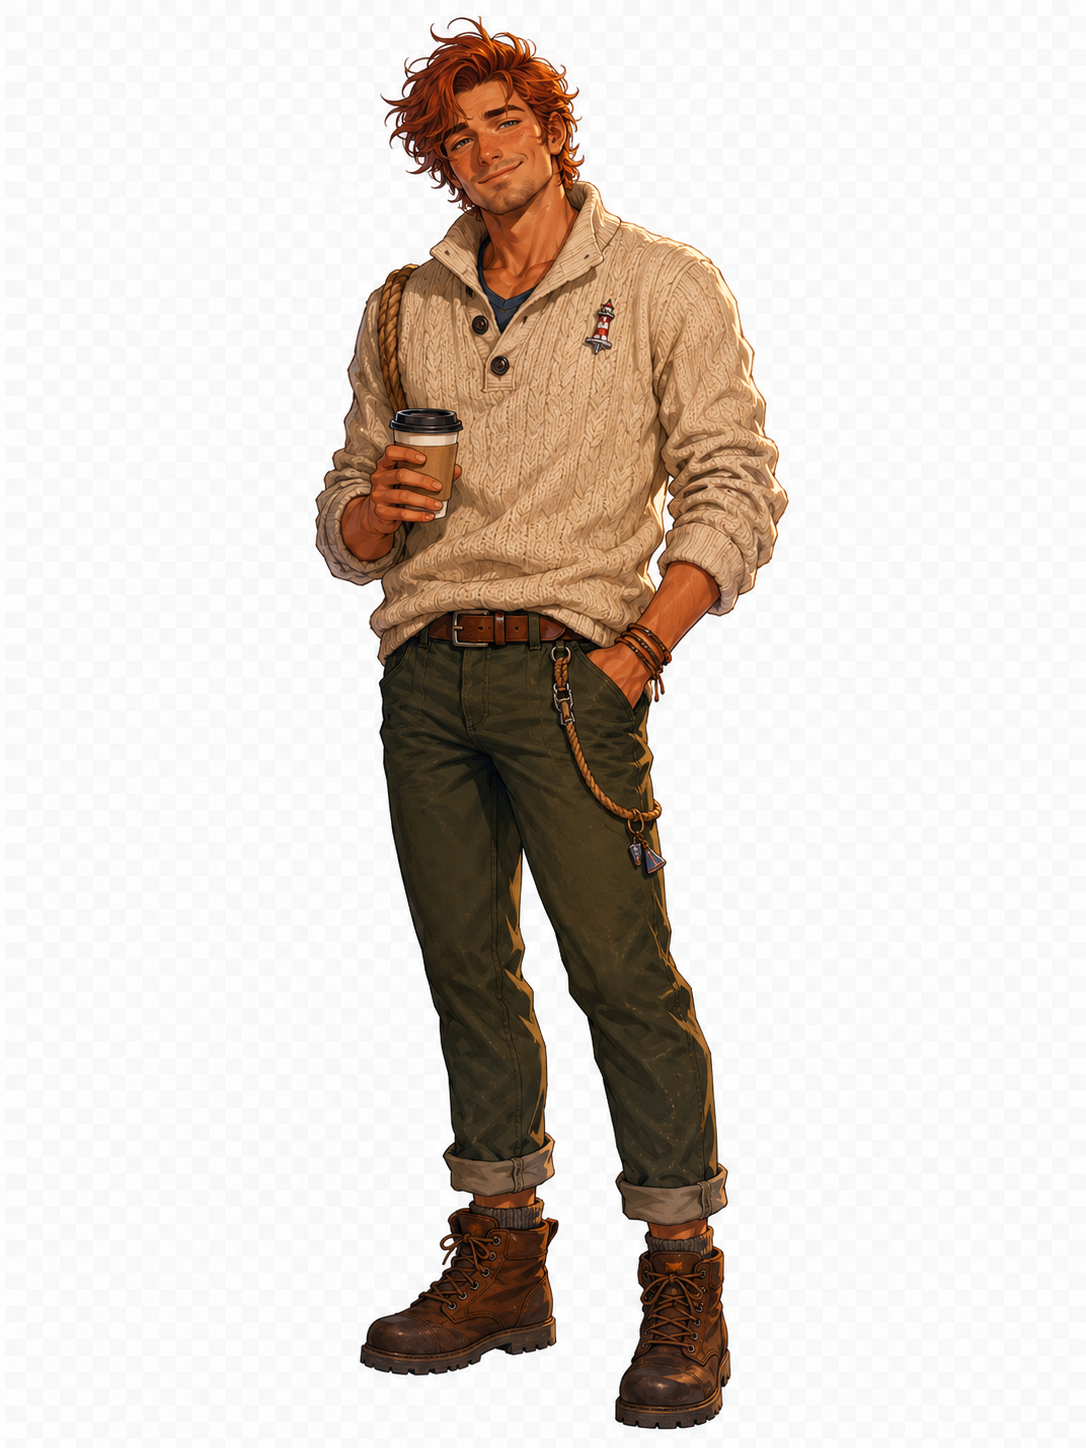
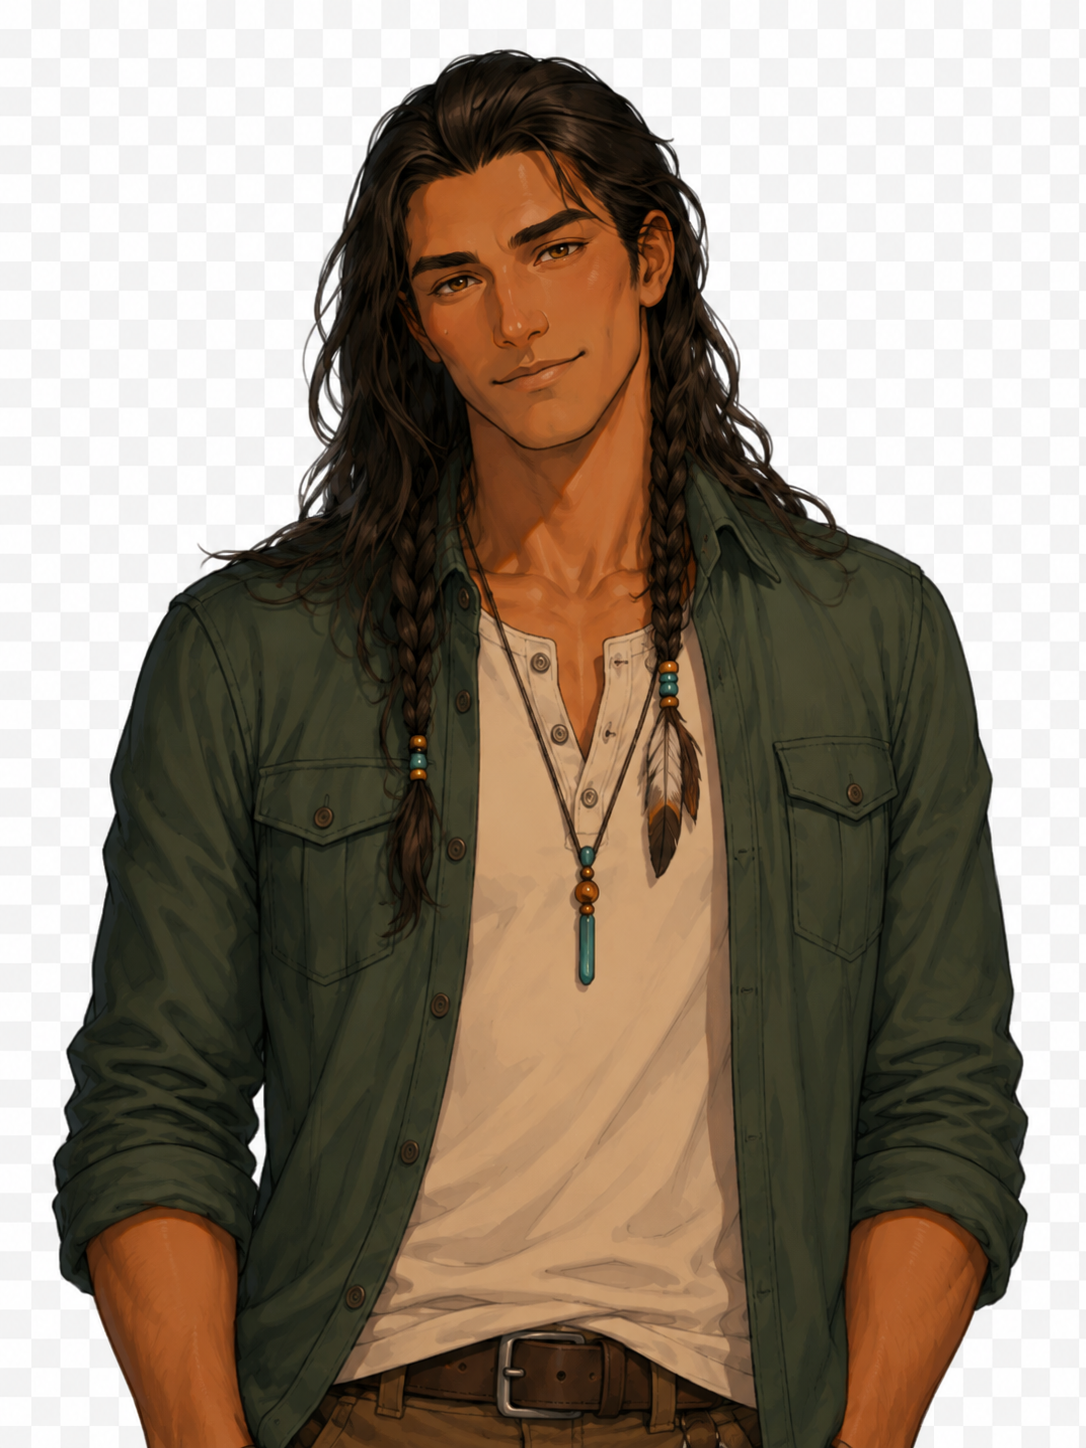
Improved intro with internal monolog

diff --git a/index.html b/index.html
@@ -670,6 +670,7 @@
           <button class="icon-btn" id="saveBtn" title="Save">S</button>
           <button class="icon-btn" id="loadBtn" title="Load">L</button>
           <button class="icon-btn" id="galleryBtn" title="Gallery">G</button>
+          <button class="icon-btn" id="audioBtn" title="Sound on">♪</button>
           <button class="text-btn" id="resetBtn">Reset</button>
         </div>
       </header>
@@ -741,7 +742,8 @@
         rangerApproval: 0
       },
       flags: {},
-      unlockedCG: []
+      unlockedCG: [],
+      audioEnabled: true
     };
 
     let state = clone(defaultState);
@@ -772,6 +774,31 @@
       everglades: ["assets/backgrounds/bg_everglades_moonlit_boardwalk.png", "bg-everglades"],
       dinner: ["assets/backgrounds/bg_group_dinner_lodge.png", "bg-lodge"],
       glitch: ["assets/backgrounds/bg_algorithm_post_glitch.png", "bg-glitch"]
+    };
+
+    const locationThemes = {
+      lodge: { root: 50, scale: [0, 3, 5, 7, 10], wave: "triangle", tempo: 980, pad: 0.045, bass: 0.05 },
+      lodgeExterior: { root: 48, scale: [0, 5, 7, 9, 12], wave: "sine", tempo: 1080, pad: 0.045, bass: 0.045 },
+      yellowstone: { root: 43, scale: [0, 2, 5, 7, 10], wave: "sawtooth", tempo: 820, pad: 0.04, bass: 0.055 },
+      yosemite: { root: 45, scale: [0, 4, 7, 11, 12], wave: "triangle", tempo: 900, pad: 0.05, bass: 0.045 },
+      acadia: { root: 52, scale: [0, 2, 4, 7, 9], wave: "sine", tempo: 760, pad: 0.04, bass: 0.035 },
+      smoky: { root: 47, scale: [0, 3, 5, 7, 10], wave: "triangle", tempo: 1040, pad: 0.055, bass: 0.035 },
+      zion: { root: 41, scale: [0, 2, 5, 7, 9], wave: "square", tempo: 860, pad: 0.035, bass: 0.055 },
+      everglades: { root: 46, scale: [0, 2, 3, 7, 10], wave: "sine", tempo: 720, pad: 0.045, bass: 0.045 },
+      dinner: { root: 53, scale: [0, 2, 5, 7, 9], wave: "triangle", tempo: 680, pad: 0.04, bass: 0.04 },
+      glitch: { root: 42, scale: [0, 1, 6, 7, 11], wave: "sawtooth", tempo: 520, pad: 0.03, bass: 0.05 }
+    };
+
+    const characterThemes = {
+      june: { lead: "square", melody: [12, 7, 10, 5, 7, 3, 5, 0], volume: 0.022 },
+      yellowstone: { lead: "sawtooth", melody: [0, 7, 10, 14, 12, 10, 7, 5], volume: 0.026 },
+      yosemite: { lead: "triangle", melody: [12, 16, 19, 23, 19, 16, 14, 12], volume: 0.025 },
+      acadia: { lead: "sine", melody: [7, 9, 12, 14, 16, 14, 12, 9], volume: 0.024 },
+      smoky: { lead: "triangle", melody: [0, 3, 7, 10, 12, 10, 7, 3], volume: 0.024 },
+      zion: { lead: "square", melody: [0, 5, 9, 12, 17, 12, 9, 5], volume: 0.022 },
+      everglades: { lead: "sine", melody: [0, 2, 3, 7, 10, 7, 3, 2], volume: 0.025 },
+      chad: { lead: "sawtooth", melody: [12, 11, 7, 6, 5, 1, 6, 11], volume: 0.02 },
+      algorithm: { lead: "sawtooth", melody: [0, 6, 1, 11, 7, 13, 6, 1], volume: 0.024 }
     };
 
     const cgLibrary = {
@@ -878,22 +905,24 @@
 
     const scenes = {
       cold_open_tiktok_montage: {
-        label: "Cold Open",
+        label: "Before The Lodge",
         background: "lodgeExterior",
         character: null,
-        onEnter: { parkTok: "coldOpen", metrics: { viralPotential: 1, chaos: 1 } },
+        onEnter: { metrics: { viralPotential: 1, chaos: 1 } },
         lines: [
-          ["narrator", "ParkTok was supposed to be simple: one sunset, two safety facts, zero comments using the phrase geological thirst."],
-          ["narrator", "Then a parody Yellowstone clip hit seven figures, Yosemite discovered front-facing vulnerability, and every park account with a tripod started acting suspicious."],
-          ["narrator", "You, a rising creator with a ring light and questionable judgment, have been invited to Viral Vista Lodge for the first Public Lands Content Creator Retreat."],
-          ["narrator", "The invitation promises education, collaboration, and a legally distinct amount of romantic tension."],
-          ["june", "Welcome packet rule one: no touching wildlife. Rule two: no implying the wildlife wants to touch you back."],
-          ["june", "Rule three: if a handsome landscape asks you to step off a marked path, you report him to me and then reconsider your type."]
+          ["player", "Okay. Breathe. Badge straight. Hair doing whatever it thinks is best."],
+          ["player", "My name is {playerName}. Online, I am a {archetype}; offline, I am a person carrying two power banks, three lip balms, and a very fragile belief that I can be normal about famous landscapes."],
+          ["player", "ParkTok was supposed to be simple for me: one sunset, two safety facts, zero captions that made strangers type 'geological thirst' in public."],
+          ["player", "Then my parody Yellowstone clip hit seven figures. Yosemite duetted it with alarming cheekbones. Acadia made sunrise coffee look like a love language. By noon, half the internet was asking which park had the best emotional availability."],
+          ["player", "That is how I ended up invited to Viral Vista Lodge for the first Public Lands Content Creator Retreat: education, collaboration, and a legally distinct amount of romantic tension."],
+          ["player", "The job sounds simple. Help the parks go viral without encouraging anyone to step off trails, bother wildlife, or confuse stewardship with flirting."],
+          ["player", "The situation sounds less simple: the parks are somehow here as adult fictional personifications, my phone keeps buzzing, and the comments are already treating this like a dating show with trail maps."],
+          ["player", "Before I can decide whether that is charming or career-ending, the lodge doors open."]
         ],
         choices: [
-          { label: "Arrive hydrated and emotionally available.", next: "arrival_lodge", metrics: { conservationCred: 1, rangerApproval: 1 } },
-          { label: "Arrive late because you were choosing a caption.", next: "arrival_lodge", metrics: { viralPotential: 1, chaos: 1 } },
-          { label: "Arrive with backup socks and backup feelings.", next: "arrival_lodge", affection: { smoky: 1, acadia: 1 } }
+          { label: "Step inside hydrated and emotionally available.", next: "arrival_lodge", metrics: { conservationCred: 1, rangerApproval: 1 }, parkTok: "coldOpen" },
+          { label: "Check the comments one last time.", next: "arrival_lodge", metrics: { viralPotential: 1, chaos: 1 }, parkTok: "coldOpen" },
+          { label: "Pocket backup socks and backup feelings.", next: "arrival_lodge", affection: { smoky: 1, acadia: 1 }, parkTok: "coldOpen" }
         ]
       },
 
@@ -902,6 +931,7 @@
         background: "lodge",
         character: "june",
         lines: [
+          ["june", "You must be {playerName}. I am Ranger June, and I can already hear your notification anxiety from across the lobby."],
           ["june", "Badge name? Creator archetype? Emergency contact who will not ask why you were flirting with sedimentary lighting?"],
           ["player", "I'm {playerName}. Officially a {archetype}. Unofficially, I'm here to make responsible content and maybe bad decisions in good boots."],
           ["june", "Excellent. You will fit in terribly."],
@@ -1360,6 +1390,18 @@
       galleryGrid: document.getElementById("galleryGrid")
     };
 
+    const audioEngine = {
+      ctx: null,
+      master: null,
+      musicGain: null,
+      sfxGain: null,
+      intervalId: null,
+      step: 0,
+      locationKey: "lodgeExterior",
+      characterKey: null,
+      enabled: true
+    };
+
     document.getElementById("newGameBtn").addEventListener("click", () => showScreen("setupScreen"));
     document.getElementById("continueBtn").addEventListener("click", loadGame);
     document.getElementById("beginBtn").addEventListener("click", startGame);
@@ -1368,6 +1410,7 @@
     document.getElementById("loadBtn").addEventListener("click", loadGame);
     document.getElementById("resetBtn").addEventListener("click", resetGame);
     document.getElementById("galleryBtn").addEventListener("click", showGallery);
+    document.getElementById("audioBtn").addEventListener("click", toggleAudio);
     document.getElementById("closeGalleryBtn").addEventListener("click", () => els.galleryOverlay.classList.remove("active"));
     document.getElementById("unlockPreviewBtn").addEventListener("click", () => {
       Object.keys(cgLibrary).forEach(unlockCG);
@@ -1397,6 +1440,8 @@
       const name = document.getElementById("playerName").value.trim();
       state.playerName = name || "Creator";
       state.archetype = document.getElementById("archetype").value;
+      audioEngine.enabled = state.audioEnabled;
+      ensureAudio();
       showScreen("gameScreen");
       renderScene("cold_open_tiktok_montage");
     }
@@ -1409,6 +1454,7 @@
       applyOnEnter(scene);
       updateBackdrop(scene.background);
       updateSprite(scene.character);
+      updateAudioTheme(scene.background, scene.character);
       updateHUD();
       renderCurrentLine();
     }
@@ -1430,6 +1476,7 @@
       const scene = scenes[state.sceneId];
       if (!scene || state.lineIndex >= scene.lines.length - 1) return;
       state.lineIndex += 1;
+      playSfx("advance");
       renderCurrentLine();
     }
 
@@ -1448,6 +1495,7 @@
     }
 
     function applyChoiceEffects(choice) {
+      playSfx("choice");
       if (choice.affection) addValues(state.affection, choice.affection);
       if (choice.metrics) addValues(state.metrics, choice.metrics);
       if (choice.flags) Object.assign(state.flags, choice.flags);
@@ -1481,6 +1529,7 @@
       if (scene.onEnter.affection) addValues(state.affection, scene.onEnter.affection);
       if (scene.onEnter.unlockCG) unlockCG(scene.onEnter.unlockCG);
       if (scene.onEnter.parkTok) setTimeout(() => showParkTok(scene.onEnter.parkTok), 180);
+      playSfx("scene");
     }
 
     function updateBackdrop(backgroundKey) {
@@ -1515,6 +1564,7 @@
       els.parkTokMeta.textContent = `${moment.likes} likes  |  ${moment.shares} shares  |  #ParkTok`;
       els.parkTokComments.innerHTML = moment.comments.map(comment => `<div class="comment">@trailcomment: ${escapeHtml(comment)}</div>`).join("");
       els.parkTokOverlay.classList.add("active");
+      playSfx("notification");
     }
 
     function showGallery() {
@@ -1561,7 +1611,9 @@
     }
 
     function saveGame() {
+      state.audioEnabled = audioEngine.enabled;
       localStorage.setItem(SAVE_KEY, JSON.stringify(state));
+      playSfx("save");
       toast("Saved at Viral Vista Lodge.");
     }
 
@@ -1577,6 +1629,9 @@
         state.metrics = Object.assign(clone(defaultState.metrics), state.metrics || {});
         state.flags = state.flags || {};
         state.unlockedCG = state.unlockedCG || [];
+        state.audioEnabled = state.audioEnabled !== false;
+        audioEngine.enabled = state.audioEnabled;
+        ensureAudio();
         showScreen("gameScreen");
         renderScene(state.sceneId || "cold_open_tiktok_montage", { keepLine: true });
         toast("Save loaded.");
@@ -1588,6 +1643,7 @@
     function resetGame() {
       localStorage.removeItem(SAVE_KEY);
       state = clone(defaultState);
+      audioEngine.enabled = state.audioEnabled;
       els.galleryOverlay.classList.remove("active");
       els.parkTokOverlay.classList.remove("active");
       showScreen("startScreen");
@@ -1597,6 +1653,147 @@
     function showScreen(id) {
       [els.startScreen, els.setupScreen, els.gameScreen].forEach(screen => screen.classList.remove("active"));
       els[id].classList.add("active");
+    }
+
+    function toggleAudio() {
+      audioEngine.enabled = !audioEngine.enabled;
+      state.audioEnabled = audioEngine.enabled;
+      ensureAudio();
+      updateAudioButton();
+      if (audioEngine.enabled) {
+        restartMusicLoop();
+        playSfx("save");
+        toast("Sound on: original park themes enabled.");
+      } else {
+        stopMusicLoop();
+        toast("Sound muted.");
+      }
+    }
+
+    function updateAudioButton() {
+      const button = document.getElementById("audioBtn");
+      button.textContent = audioEngine.enabled ? "♪" : "×";
+      button.title = audioEngine.enabled ? "Sound on" : "Sound muted";
+    }
+
+    function ensureAudio() {
+      updateAudioButton();
+      if (!audioEngine.enabled || audioEngine.ctx) return;
+      const AudioContextCtor = window.AudioContext || window.webkitAudioContext;
+      if (!AudioContextCtor) {
+        audioEngine.enabled = false;
+        updateAudioButton();
+        return;
+      }
+      const ctx = new AudioContextCtor();
+      const master = ctx.createGain();
+      const musicGain = ctx.createGain();
+      const sfxGain = ctx.createGain();
+      master.gain.value = 0.7;
+      musicGain.gain.value = 0.22;
+      sfxGain.gain.value = 0.42;
+      musicGain.connect(master);
+      sfxGain.connect(master);
+      master.connect(ctx.destination);
+      audioEngine.ctx = ctx;
+      audioEngine.master = master;
+      audioEngine.musicGain = musicGain;
+      audioEngine.sfxGain = sfxGain;
+      restartMusicLoop();
+    }
+
+    function updateAudioTheme(locationKey, characterKey) {
+      audioEngine.locationKey = locationKey || "lodge";
+      audioEngine.characterKey = characterKey || null;
+      if (!audioEngine.enabled) return;
+      ensureAudio();
+      restartMusicLoop();
+      playSfx(characterKey ? "character" : "scene");
+    }
+
+    function restartMusicLoop() {
+      if (!audioEngine.enabled || !audioEngine.ctx) return;
+      stopMusicLoop();
+      audioEngine.step = 0;
+      playMusicStep();
+      const theme = locationThemes[audioEngine.locationKey] || locationThemes.lodge;
+      audioEngine.intervalId = setInterval(playMusicStep, theme.tempo);
+    }
+
+    function stopMusicLoop() {
+      if (audioEngine.intervalId) {
+        clearInterval(audioEngine.intervalId);
+        audioEngine.intervalId = null;
+      }
+    }
+
+    function playMusicStep() {
+      if (!audioEngine.enabled || !audioEngine.ctx) return;
+      const ctx = audioEngine.ctx;
+      if (ctx.state === "suspended") ctx.resume();
+      const theme = locationThemes[audioEngine.locationKey] || locationThemes.lodge;
+      const characterTheme = characterThemes[audioEngine.characterKey];
+      const now = ctx.currentTime;
+      const scaleNote = theme.scale[audioEngine.step % theme.scale.length];
+      const octave = audioEngine.step % 4 === 0 ? -12 : 0;
+      playTone(midiToFreq(theme.root + octave + scaleNote), 1.8, theme.pad, theme.wave, audioEngine.musicGain, now, "soft");
+
+      if (audioEngine.step % 2 === 0) {
+        playTone(midiToFreq(theme.root - 24 + scaleNote), 0.34, theme.bass, "sine", audioEngine.musicGain, now, "pluck");
+      }
+
+      if (characterTheme) {
+        const melodyNote = characterTheme.melody[audioEngine.step % characterTheme.melody.length];
+        playTone(midiToFreq(theme.root + melodyNote), 0.28, characterTheme.volume, characterTheme.lead, audioEngine.musicGain, now + 0.06, "pluck");
+      }
+
+      audioEngine.step += 1;
+    }
+
+    function playSfx(type) {
+      if (!audioEngine.enabled) return;
+      ensureAudio();
+      if (!audioEngine.ctx) return;
+      const ctx = audioEngine.ctx;
+      if (ctx.state === "suspended") ctx.resume();
+      const now = ctx.currentTime;
+      const gain = audioEngine.sfxGain;
+      const sfx = {
+        advance: [740, 0.04, 0.035, "triangle"],
+        choice: [520, 0.09, 0.075, "square"],
+        scene: [260, 0.18, 0.07, "sine"],
+        character: [392, 0.12, 0.06, "triangle"],
+        notification: [880, 0.08, 0.08, "sine"],
+        save: [660, 0.12, 0.07, "triangle"]
+      }[type] || [440, 0.08, 0.05, "sine"];
+      playTone(sfx[0], sfx[1], sfx[2], sfx[3], gain, now, "pluck");
+      if (type === "notification") playTone(1175, 0.08, 0.06, "sine", gain, now + 0.09, "pluck");
+      if (type === "choice") playTone(780, 0.07, 0.045, "triangle", gain, now + 0.08, "pluck");
+    }
+
+    function playTone(frequency, duration, volume, wave, destination, startTime, shape) {
+      const ctx = audioEngine.ctx;
+      if (!ctx || !destination) return;
+      const osc = ctx.createOscillator();
+      const gain = ctx.createGain();
+      osc.type = wave;
+      osc.frequency.setValueAtTime(frequency, startTime);
+      gain.gain.setValueAtTime(0.0001, startTime);
+      gain.gain.exponentialRampToValueAtTime(Math.max(volume, 0.0002), startTime + 0.02);
+      if (shape === "soft") {
+        gain.gain.exponentialRampToValueAtTime(0.0001, startTime + duration);
+      } else {
+        gain.gain.exponentialRampToValueAtTime(Math.max(volume * 0.35, 0.0002), startTime + duration * 0.35);
+        gain.gain.exponentialRampToValueAtTime(0.0001, startTime + duration);
+      }
+      osc.connect(gain);
+      gain.connect(destination);
+      osc.start(startTime);
+      osc.stop(startTime + duration + 0.04);
+    }
+
+    function midiToFreq(note) {
+      return 440 * Math.pow(2, (note - 69) / 12);
     }
 
     function formatText(text) {